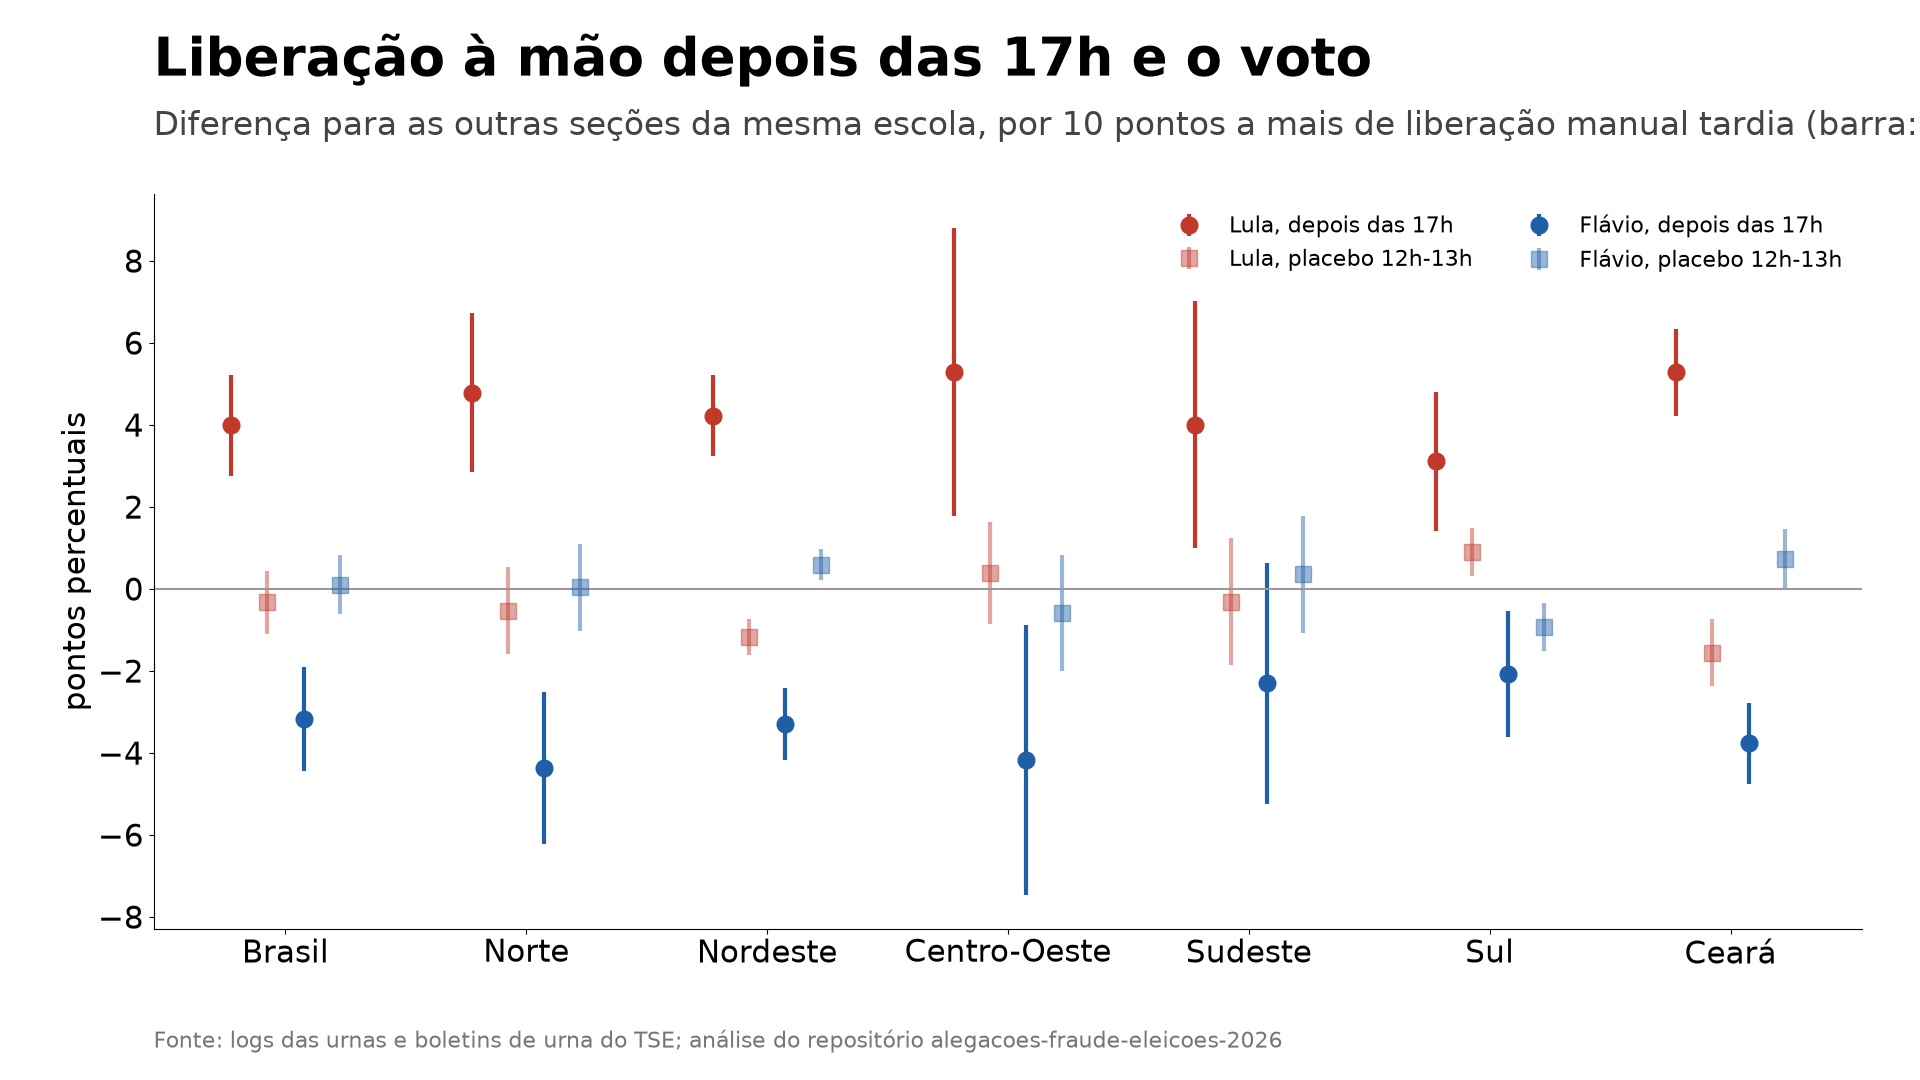
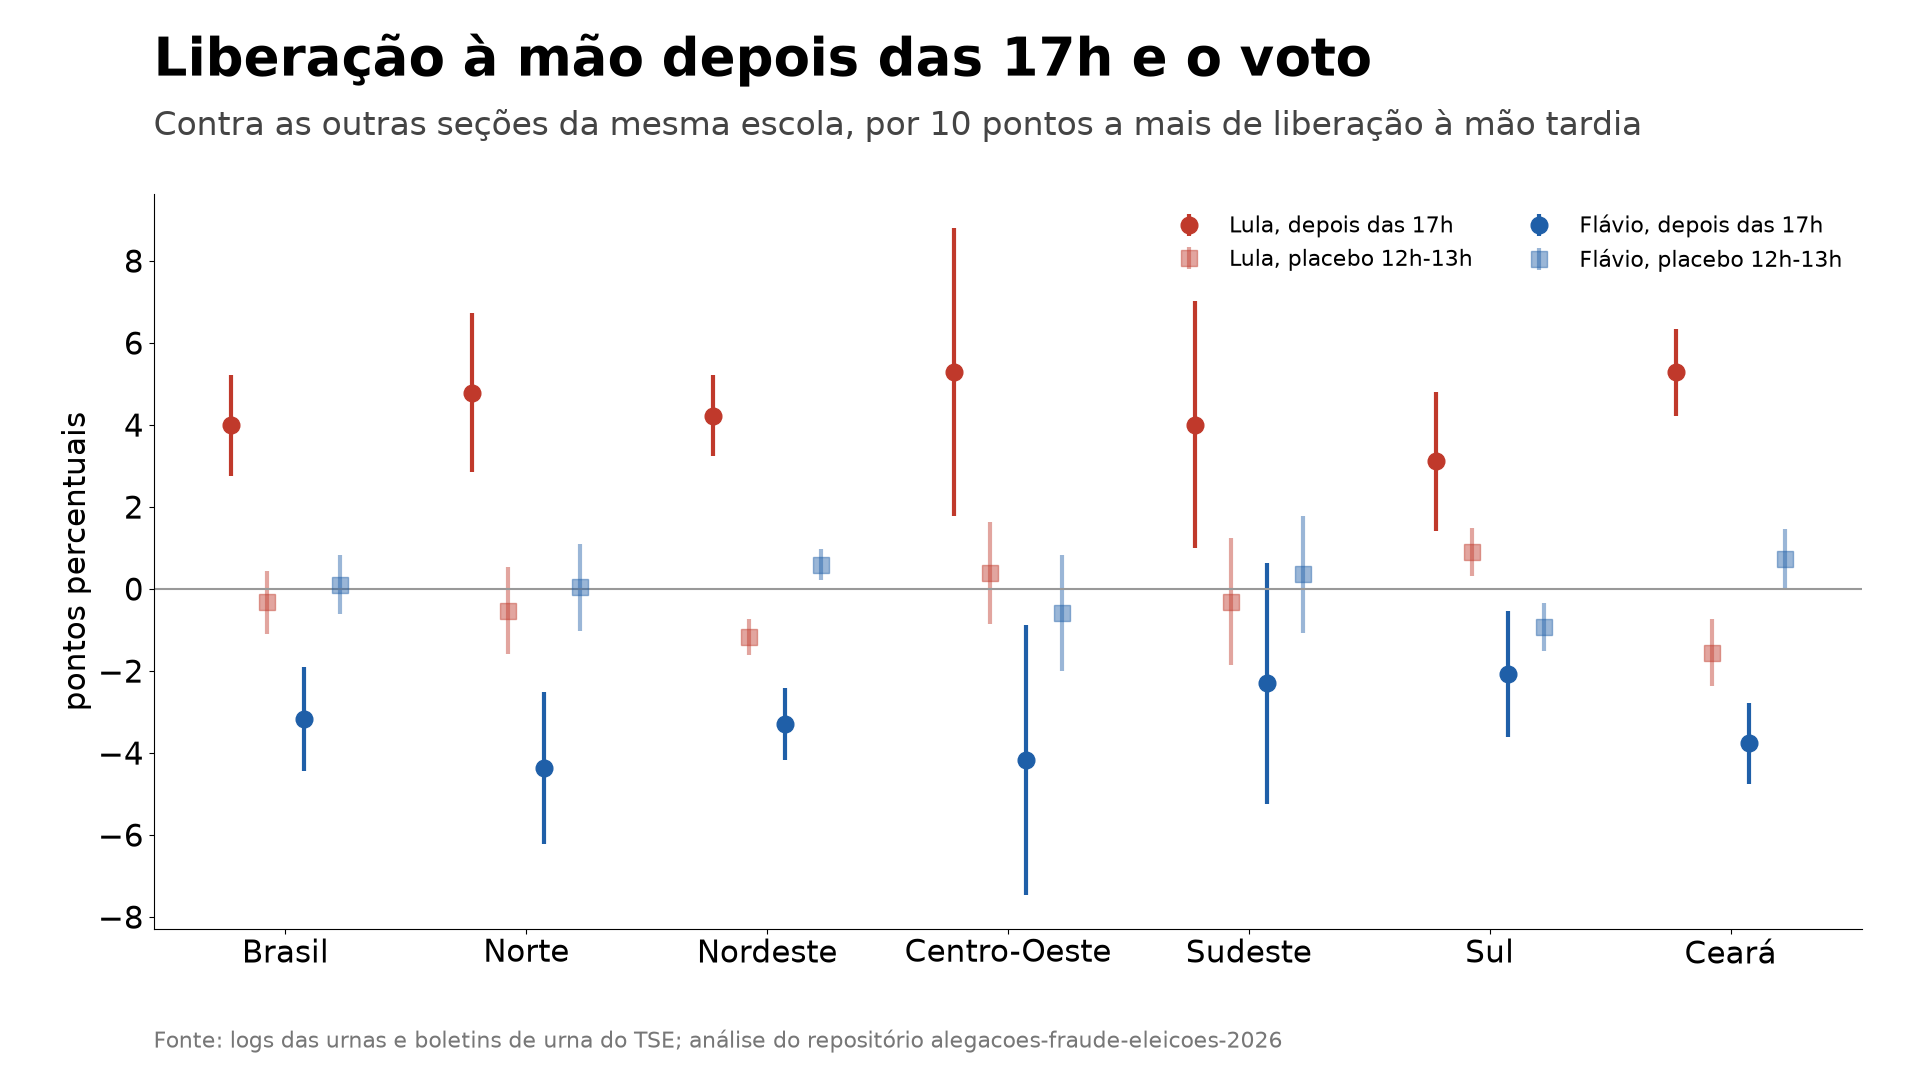
Gráficos g03 e g06: subtítulo mais curto (o texto saía da figura)

Changed region(s): [[0.0938, 0.0917, 1.0, 0.1222]]

diff --git a/ferramentas/graficos.py b/ferramentas/graficos.py
@@ -130,7 +130,7 @@ def g02_perfil_por_hora() -> None:
 
 def g03_duracao() -> None:
     a = pd.read_csv(RES / "a2_votos_depois_das_17h.csv").set_index("escopo").loc[["Brasil"] + REGIOES]
-    fig, ax = figura("Quanto tempo cada eleitor levou para votar", "Mediana, em segundos, da liberação ao voto computado. A alegação de 2022: \"de 1min40 para 32 s depois das 17h\"")
+    fig, ax = figura("Quanto tempo cada eleitor levou para votar", "Mediana, em segundos, da liberação ao voto (alegação de 2022: de 1min40 para 32 s)")
     x = np.arange(len(a))
     ax.bar(x - 0.27, a["dur_mediana_antes17"], 0.27, color="#9aa7b4", label="antes das 17h")
     ax.bar(x, a["dur_mediana_bio_apos17"], 0.27, color="#5b7da3", label="depois das 17h, com digital")
@@ -144,7 +144,7 @@ def g03_duracao() -> None:
 def g06_dose_resposta() -> None:
     t = pd.read_csv(RES / "a1_t19_dose_resposta.csv")
     t = t[t["y"].isin(["p_lula", "p_flavio"]) & t["escopo"].isin(["Brasil"] + REGIOES + ["CE"])]
-    fig, ax = figura("Liberação à mão depois das 17h e o voto", "Diferença para as outras seções da mesma escola, por 10 pontos a mais de liberação manual tardia (barra: 95%)")
+    fig, ax = figura("Liberação à mão depois das 17h e o voto", "Contra as outras seções da mesma escola, por 10 pontos a mais de liberação à mão tardia")
     esc = ["Brasil"] + REGIOES + ["CE"]
     for k, (y, cor, nome) in enumerate([("p_lula", COR["Lula"], "Lula"), ("p_flavio", COR["Flavio"], "Flávio")]):
         for j, (mod, mk) in enumerate([("apos17", "o"), ("placebo_12_13", "s")]):
